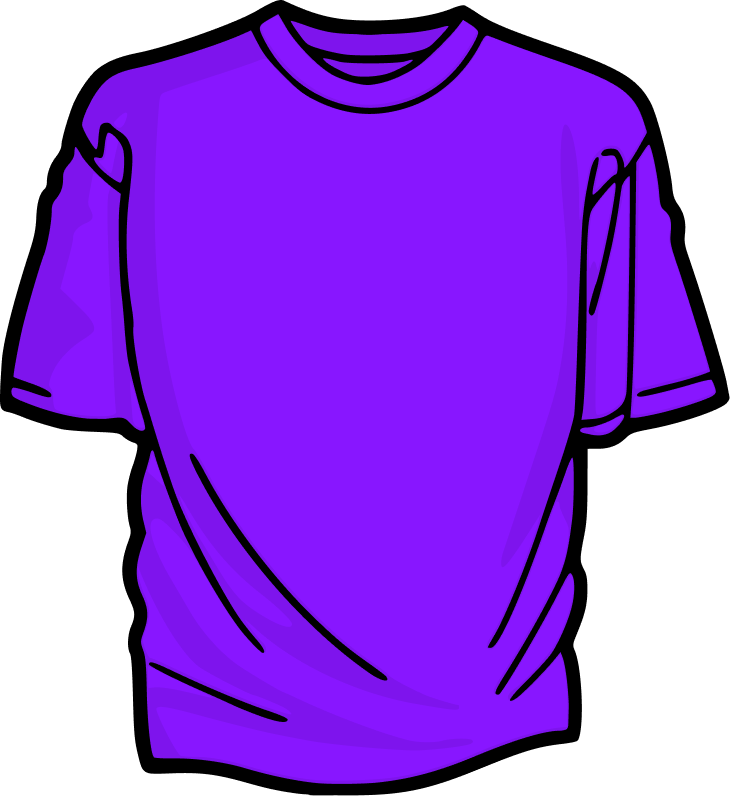
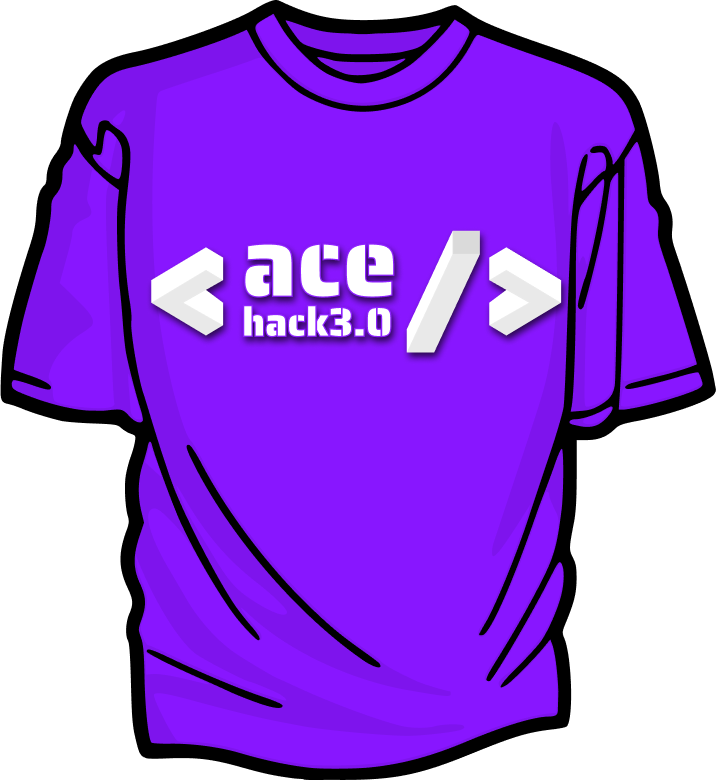
refer & earn update

diff --git a/src/pages/referal.jsx b/src/pages/referal.jsx
@@ -2,9 +2,13 @@ import React from "react";
 import { FaArrowAltCircleDown, FaArrowRight, FaStar } from "react-icons/fa";
 import Item from "../components/Item";
 
-import prz1 from "/assets/images/prizes/ref_prize1.webp";
-import prz2 from "/assets/images/prizes/ref_prize2.webp";
-import prz3 from "/assets/images/prizes/ref_prize3.png";
+// import prz1 from "/assets/images/prizes/ref_prize1.webp";
+// C:\Users\kumar\OneDrive\Desktop\AceHack3.O\Website\Acehack3\public\assets\images\why\tshirt.png
+import prz1 from "/assets/images/why/tshirtbg.png";
+import prz2 from "/assets/images/why/bottle.webp";
+// import prz2 from "/assets/images/prizes/ref_prize2.webp";
+import prz3 from "/assets/images/why/mug.webp";
+// import prz3 from "/assets/images/prizes/ref_prize3.png";
 
 const Referal = () => {
   return (
@@ -15,29 +19,134 @@ const Referal = () => {
       <div className="flex justify-start pl-4 md:pl-20">
         <h1 className="text-4xl font-bold">Refer and Earn</h1>
       </div>
+
+      {/* evangelist program */}
+      <div className="evangelist flex-col text-xl justify-start pl-4 md:pl-20 mt-5">
+        <h1 className="text-3xl font-bold my-3">
+          <span className="grad-text"># Evangelist</span> Program
+        </h1>
+        <div className="list">
+          <ul className="list-disc ml-6 mr-10 md:mr-28 text-xl ">
+            <li className="text-wrap text-justiy">
+              Gain Community Leadership Experience
+            </li>
+            <li className="text-wrap text-justiy">
+              Become the extended AceHack & EduhubTeam
+            </li>
+            <li className="text-wrap text-justiy">
+              Dedicated Hackathon Evangelist Mentorship
+            </li>
+            <li className="text-wrap text-justiy">
+              Certificate to all eligible Hackathon Evangelists
+            </li>
+            <li className="text-wrap text-justiy">
+              Shoutout on our socials for your contributions
+            </li>
+            <li className="text-wrap text-justiy">
+              Top Hackathon Evangelists receive recognition
+            </li>
+            <li className="text-wrap text-justiy">
+              Opportunity to get involved in the team for next season or this
+              session as well and get a free trip to Hackathon.
+            </li>
+            <li className="text-wrap text-justiy">Experience Certificate.</li>
+            <li className="text-wrap text-justiy">
+              80 registrations: 1 AceHack Exclusive T-shirt + Virtual
+              Certificate.
+            </li>
+            <li className="text-wrap text-justiy">
+              120 registrations: 1 AceHack Exclusive T-shirt + 1 AceHack
+              Exclusive Mug + Virtual Certificate + Social Media ShoutOut.
+            </li>
+            <li className="text-wrap text-justiy">
+              150 registrations: 1 AceHack Exclusive T-shirt + 1 AceHack
+              Exclusive Mug + 1 Swag from our Sponsor (T-shirt/Bottle/ToteBag
+              etc.) + Virtual Certificate + Social Media ShoutOut.
+            </li>
+            <li className="text-wrap text-justiy">
+              200 registrations+ : Free Train Tickets to attend AceHack3.0 in
+              Jaipur and Free Accommodation + Physical Certificate + 1 AceHack
+              Exclusive T-shirt + Social Media ShoutOut.
+            </li>
+          </ul>
+        </div>
+      </div>
+
+      {/* community partners */}
+
+      <div className="community flex-col text-xl justify-start pl-4 md:pl-20 mt-10">
+        <h1 className="text-3xl font-bold my-3">
+          <span className="grad-text"># Community Partner</span> Program
+        </h1>
+        <div className="list">
+          <ul className="list-disc ml-6 mr-10 md:mr-28 text-xl ">
+            <li className="text-wrap text-justiy">
+              Cross-community collaboration
+            </li>
+            <li className="text-wrap text-justiy">
+              Receive speaker/mentor support for your event
+            </li>
+            <li className="text-wrap text-justiy">
+              Gain community growth mentorship
+            </li>
+            <li className="text-wrap text-justiy">
+              Gets to be part of weekly partner syncs
+            </li>
+            <li className="text-wrap text-justiy">
+              Feature on our socials and website
+            </li>
+            <li className="text-wrap text-justiy">In-Person shout-out.</li>
+            <li className="text-wrap text-justiy">Experience Certificate.</li>
+            <li className="text-wrap text-justiy">Experience Certificate.</li>
+            <li className="text-wrap text-justiy">
+              100 registrations: 3 T shirts + 2 Mugs.
+            </li>
+            <li className="text-wrap text-justiy">
+              130 registrations: 3 T shirts + 2 Mugs + 2 Bottle
+            </li>
+            <li className="text-wrap text-justiy">
+              220 registrations: Logo on Physical banners and all Social Media
+              Posts + 3 Mugs + 5 T shirts + 3 Bottles
+            </li>
+            <li className="text-wrap text-justiy">
+              300 registrations+ : 15 min session on your community + Logo on
+              Physical banners and all Social Media Posts + 5 Mugs + 5 T shirts
+              + 5 Bottles
+            </li>
+          </ul>
+        </div>
+      </div>
       <div className="flex flex-col items-start text-left text-xl pl-4 md:pl-20 gap-4 pt-6">
-        <p className="flex items-center gap-2"><FaArrowRight/>
+        {/* <p className="flex items-center gap-2 my-2">
+          <FaArrowRight />
           If you cross 100+ registration from your referral link then you are
           eligible for the contest.
         </p>
-        <p className="flex items-center gap-2"><FaArrowRight/>
+        <p className="flex items-center gap-2 my-2">
+          <FaArrowRight />
           Go to your Hackathon Dashboard and you will get one referral link,
           share the link in your socials.
         </p>
-        <p className="flex items-center gap-2"><FaArrowRight/>
+        <p className="flex items-center gap-2 my-2">
+          <FaArrowRight />
           Depending on the registration and participation ratio winner will
           announce.
         </p>
-        <p className="flex items-center gap-2"><FaArrowRight/>
+        <p className="flex items-center gap-2 my-2">
+          <FaArrowRight />
           Share the referral link in your circle / professional network and
           encourage them to register for the event.
-        </p>
+        </p> */}
         <div className="flex flex-row justify-center w-full flex-wrap">
-          <Item img={prz1} text="Earbuds" />
-          <Item img={prz2} text="Gaming mouse" />
-          <Item img={prz3}text="Swags" />
+          <Item img={prz1} text="T-shirt" />
+          <Item img={prz2} text="Bottle"/>
+          <Item img={prz3} text="Mug" />
         </div>
-        <p className="text-lg text-gray-400 pt-10"><i># For the leaderboard Check our Instagram and Linkedin profiles.</i></p>
+        <p className="text-lg text-gray-400 pt-10">
+          <i>
+            # For the leaderboard Check our Instagram and Linkedin profiles.
+          </i>
+        </p>
       </div>
     </div>
   );

diff --git a/src/pages/GetInvolved.jsx b/src/pages/GetInvolved.jsx
@@ -9,7 +9,7 @@ import mj from "/assets/images/QR/mentor.svg";
 
 const GetInvolved = () => {
   return (
-    <div id="getInvolved" className="relative items-center justify-center bg-gradient-to-br from-gray-900 via-purple-950 to-gray-900 backdrop-blur-lg w-full z-20 py-10 scroll-smooth">
+    <div id="getInvolved" className="relative items-center justify-center bg-gradient-to-bl from-gray-900 via-purple-950 to-gray-900 backdrop-blur-lg w-full z-20 py-10 scroll-smooth">
       <section className="max-w-6xl mx-auto px-4 sm:px-6 lg:px-4 py-12">
         <div className="flex flex-row justify-center w-full">
           <h1 className="font-bold text-5xl mb-10 text-white text-center">

diff --git a/src/pages/Sponsor.jsx b/src/pages/Sponsor.jsx
@@ -52,7 +52,7 @@ const Sponsor = () => {
   return (
     <div
       id="sponsor"
-      className="py-16 text-white z-20 relative bg-gradient-to-bl from-gray-900 via-purple-950 to-gray-900 w-full scroll-smooth"
+      className="py-16 text-white z-20 relative bg-gradient-to-br from-gray-900 via-purple-950 to-gray-900 w-full scroll-smooth"
     >
       <div className="flex flex-col items-center text-center">
         <h1 className="text-5xl font-bold pb-10">

diff --git a/src/components/Item.jsx b/src/components/Item.jsx
@@ -6,7 +6,7 @@ const Item = (props) => {
       <img
         src={props.img}
         alt="AceHack 1.0"
-        className="scale-75 hover:transition duration-300 ease-in hover:scale-[80%]"
+        className="scale-75 rounded-md hover:transition  duration-300 ease-in hover:scale-[80%]"
       />
       <h1 className="text-2xl font-bold py-4 my-4 text-purple-500 hover:text-purple-400 text-align-center">
         {props.text}

diff --git a/src/App.jsx b/src/App.jsx
@@ -58,8 +58,8 @@ const App = () => {
                   <Why />
                   <Prizes />
                   <Referal />
-                  <Sponsor />
                   <GetInvolved />
+                  <Sponsor />
                   <Past />
                   {/* <Speakers /> */}
                   <Faculty />

diff --git a/src/index.css b/src/index.css
@@ -135,3 +135,10 @@ height: 20rem;
 		background-position: 0% 50%;
 	}
 }
+
+
+/*  */
+
+.list ul li{
+  margin-bottom: 5px;
+}
